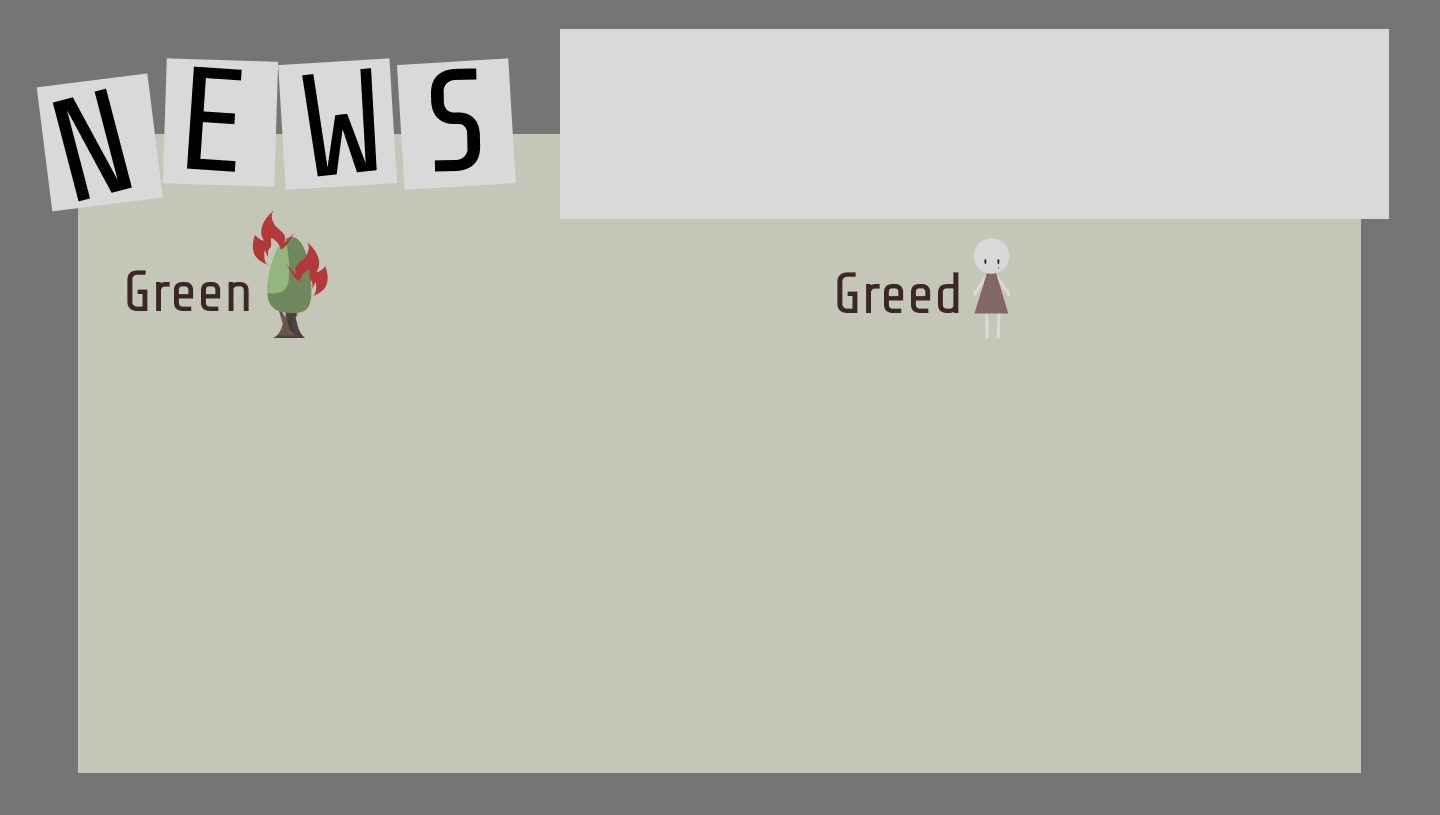
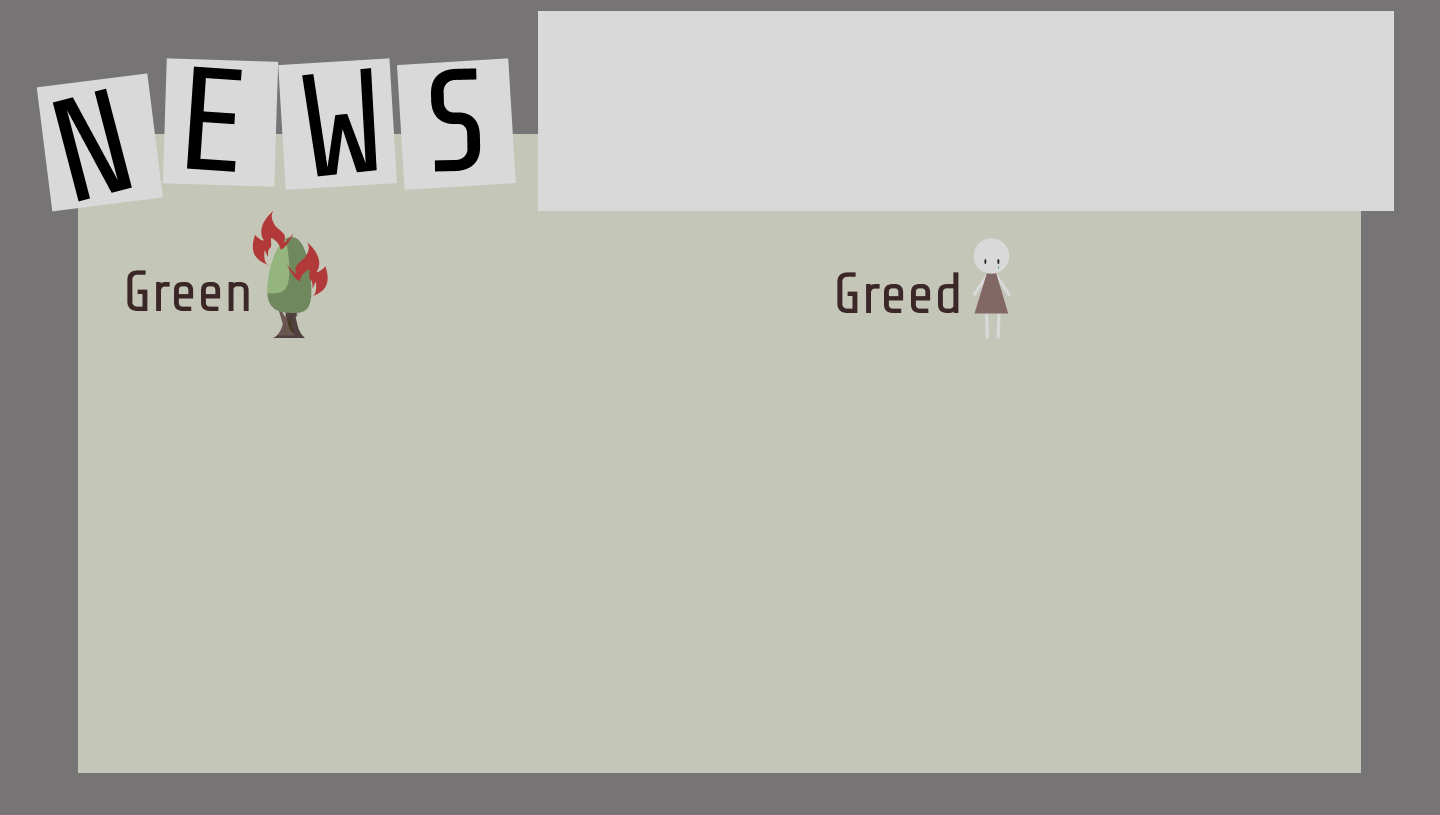
ニュースのレスポンシブできた

Changed region(s): [[0.375, 0.0, 0.9688, 0.2761]]

diff --git a/static/app_env_protect_game/style.css b/static/app_env_protect_game/style.css
@@ -1,9 +1,8 @@
 html {
 	font-size: 62.5%;
-	overflow: hidden;
   }
 
-  body {
+body {
 	background-color:#767474;
 	font-family: "Share Tech", sans-serif;
   }
@@ -14,7 +13,7 @@ html {
 	display: block;
   }
 
-  .lines-image {
+.lines-image {
 	width: 18%;
 	position: absolute;
 	top: 50%;
@@ -24,7 +23,7 @@ html {
   }
 
 
-  .container {
+.container {
 	width: 100%;
 	height: 100%;
 	position: relative;
@@ -34,15 +33,21 @@ html {
 	position: absolute;
 	top: 0%;
 	left: 0%;
-	font-size: 2rem;
+	font-size: clamp(0.5rem, 3vw - 0.75rem, 2.4rem);
 	color: #FFFFFF;
 	text-decoration: none;
 
 }
 
-
-
-
+h1 {
+	font-weight: 400;
+	font-style: normal;
+	position: absolute;
+	top: 1.5%;
+	left: 38%;
+	font-size: clamp(0.5rem, 3vw - 0.85rem, 2.8rem);
+	padding: 20px;
+}
 
 /* Place each news without overlapping*/
 #poverty_news #news1{position: absolute; top: 43%; left: 10%;}
@@ -52,15 +57,6 @@ html {
 #env_news #news1{position: absolute; top: 43%; left: 63%;}
 #env_news #news2{position: absolute; top: 60%; left: 63%;}
 #env_news #news3{position: absolute; top: 77%; left: 63%;}
-
-/* Place news number at the top left corner */
-#poverty_news #news1::before{content: " • news1"; position: absolute; left: 0px; font-size: 1.6rem;}
-#poverty_news #news2::before{content: " • news2"; position: absolute; left: 0px; font-size: 1.6rem;}
-#poverty_news #news3::before{content: " • news3"; position: absolute; left: 0px; font-size: 1.6rem;}
-
-#env_news #news1::before{content: " • news1"; position: absolute; left: 0px; font-size: 1.6rem;}
-#env_news #news2::before{content: " • news2"; position: absolute; left: 0px; font-size: 1.6rem;}
-#env_news #news3::before{content: " • news3"; position: absolute; left: 0px; font-size: 1.6rem;}
 
 /* When id exists use these */
 /* #poverty_and_enviroment_news_1{position: absolute; top: 30%; left: 40%;}
@@ -72,16 +68,6 @@ html {
 
 @media (min-width: 1001px) {
 
-	h1 {
-		font-weight: 400;
-		font-style: normal;
-		position: absolute;
-		top: 7%;
-		left: 42%;
-		font-size: 2.4rem;
-		color: #3B2727;
-	}
-
 	.news-contents{
 		width: 25%;
 		height: 15%;
@@ -89,19 +75,13 @@ html {
 		border-radius: 0px 16px;
 		background: #FFFFFF;
 		position: absolute;
-	
-		/* This is to be modified */
-		top: 30%;
-		left: 20%;
-
-		/* transition: transform .5s; */
-
 
 	}
 
-	/* .news-contents:hover{
+	.news-contents:hover{
 		transform: scale(1.5);
-	} */
+		z-index: 2;
+	}
 
 	.news-text{
 		width: 90%;
@@ -120,43 +100,27 @@ html {
 		text-decoration: none;
 	}
 
-	.question-mark {
-		color: #D88686;
-		font-size: 14rem;
-		position: absolute;
-		top: 60%;
-		left: 47%;
-		z-index: 2;
-	}
+	/* Place news number at the top left corner */
+	#poverty_news #news1::before{content: " • news1"; position: absolute; left: 0px; font-size: 1.6rem;}
+	#poverty_news #news2::before{content: " • news2"; position: absolute; left: 0px; font-size: 1.6rem;}
+	#poverty_news #news3::before{content: " • news3"; position: absolute; left: 0px; font-size: 1.6rem;}
 
+	#env_news #news1::before{content: " • news1"; position: absolute; left: 0px; font-size: 1.6rem;}
+	#env_news #news2::before{content: " • news2"; position: absolute; left: 0px; font-size: 1.6rem;}
+	#env_news #news3::before{content: " • news3"; position: absolute; left: 0px; font-size: 1.6rem;}
 
 	
 }
 
 
 @media (min-width: 768px) and (max-width: 1000px) {
-
-	h1 {
-		font-weight: 400;
-		font-style: normal;
-		position: absolute;
-		top: 0%;
-		left: 40%;
-		font-size: 1.4rem;
-		color: #FFFFFF;
-	}
-
 	.news-contents{
-		width: 18%;
-		height: 12%;
+		width: 25%;
+		height: 15%;
 		text-align: center;
-		border-radius: 10px;
+		border-radius: 0px 16px;
 		background: #FFFFFF;
 		position: absolute;
-	
-		/* This is to be modified */
-		top: 30%;
-		left: 20%;
 	}
 
 	.news-text{
@@ -176,14 +140,14 @@ html {
 		text-decoration: none;
 	}
 
-	.question-mark {
-		color: #D88686;
-		font-size: 8rem;
-		position: absolute;
-		top: 40%;
-		left: 48%;
-		z-index: 2;
-	}
+	/* Place news number at the top left corner */
+	#poverty_news #news1::before{content: " • news1"; position: absolute; left: 0px; font-size: 1rem;}
+	#poverty_news #news2::before{content: " • news2"; position: absolute; left: 0px; font-size: 1rem;}
+	#poverty_news #news3::before{content: " • news3"; position: absolute; left: 0px; font-size: 1rem;}
+
+	#env_news #news1::before{content: " • news1"; position: absolute; left: 0px; font-size: 1rem;}
+	#env_news #news2::before{content: " • news2"; position: absolute; left: 0px; font-size: 1rem;}
+	#env_news #news3::before{content: " • news3"; position: absolute; left: 0px; font-size: 1rem;}
 
 
 	
@@ -192,28 +156,13 @@ html {
          
 
 @media (min-width: 320px) and (max-width: 767px) {
-
-	h1 {
-		font-weight: 400;
-		font-style: normal;
-		position: absolute;
-		top: 0%;
-		left: 40%;
-		font-size: 1.6rem;
-		color: #FFFFFF;
-	}
-
 	.news-contents{
-		width: 18%;
-		height: 12%;
+		width: 25%;
+		height: 15%;
 		text-align: center;
-		border-radius: 10px;
+		border-radius: 0px 16px;
 		background: #FFFFFF;
 		position: absolute;
-	
-		/* This is to be modified */
-		top: 30%;
-		left: 20%;
 	}
 
 	.news-text{
@@ -229,22 +178,18 @@ html {
 		-webkit-line-clamp: 3;
 		-webkit-box-orient: vertical;
 		
-		font-size: 0.8rem;
+		font-size: 0.6rem;
 		text-decoration: none;
 	}
-
-	.question-mark {
-		color: #D88686;
-		font-size: 6rem;
-		position: absolute;
-		top: 40%;
-		left: 48%;
-		z-index: 2;
-	}
-
-
-
 	
+	/* Place news number at the top left corner */
+	#poverty_news #news1::before{content: " • news1"; position: absolute; left: 0px; font-size: 0.5rem;}
+	#poverty_news #news2::before{content: " • news2"; position: absolute; left: 0px; font-size: 0.5rem;}
+	#poverty_news #news3::before{content: " • news3"; position: absolute; left: 0px; font-size: 0.5rem;}
+
+	#env_news #news1::before{content: " • news1"; position: absolute; left: 0px; font-size: 0.5rem;}
+	#env_news #news2::before{content: " • news2"; position: absolute; left: 0px; font-size: 0.5rem;}
+	#env_news #news3::before{content: " • news3"; position: absolute; left: 0px; font-size: 0.5rem;}
 }
 
 /* Text wrapping ref: https://qiita.com/KazuyoshiGoto/items/4f88e87bb12ff38d1c4e */

diff --git a/templates/app_env_protect_game/News.html b/templates/app_env_protect_game/News.html
@@ -22,7 +22,7 @@
 <body>
     <div class="container">
         <img class="news-image" src="{% static 'app_env_protect_game/img/NewsPage.png' %}">
-        <img class="lines-image" src="{% static 'app_env_protect_game/img/lines.png' %}">
+        <img class="lines-image" src="{% static 'app_env_protect_game/img/lines_question.png' %}">
         <h1>How difficult was it to balance Green and Greed?<br>
             This is not just a game...<br>
             Here are real-life examples you can learn<br>
@@ -35,7 +35,6 @@
                 </div>
             {% endfor %}
         </div> -->
-        <a class="question-mark">?</a>
         <div id="env_news">
             {% for article in poverty_news.items %}
                 <div class="news-contents" id="{{ article.id }}">
